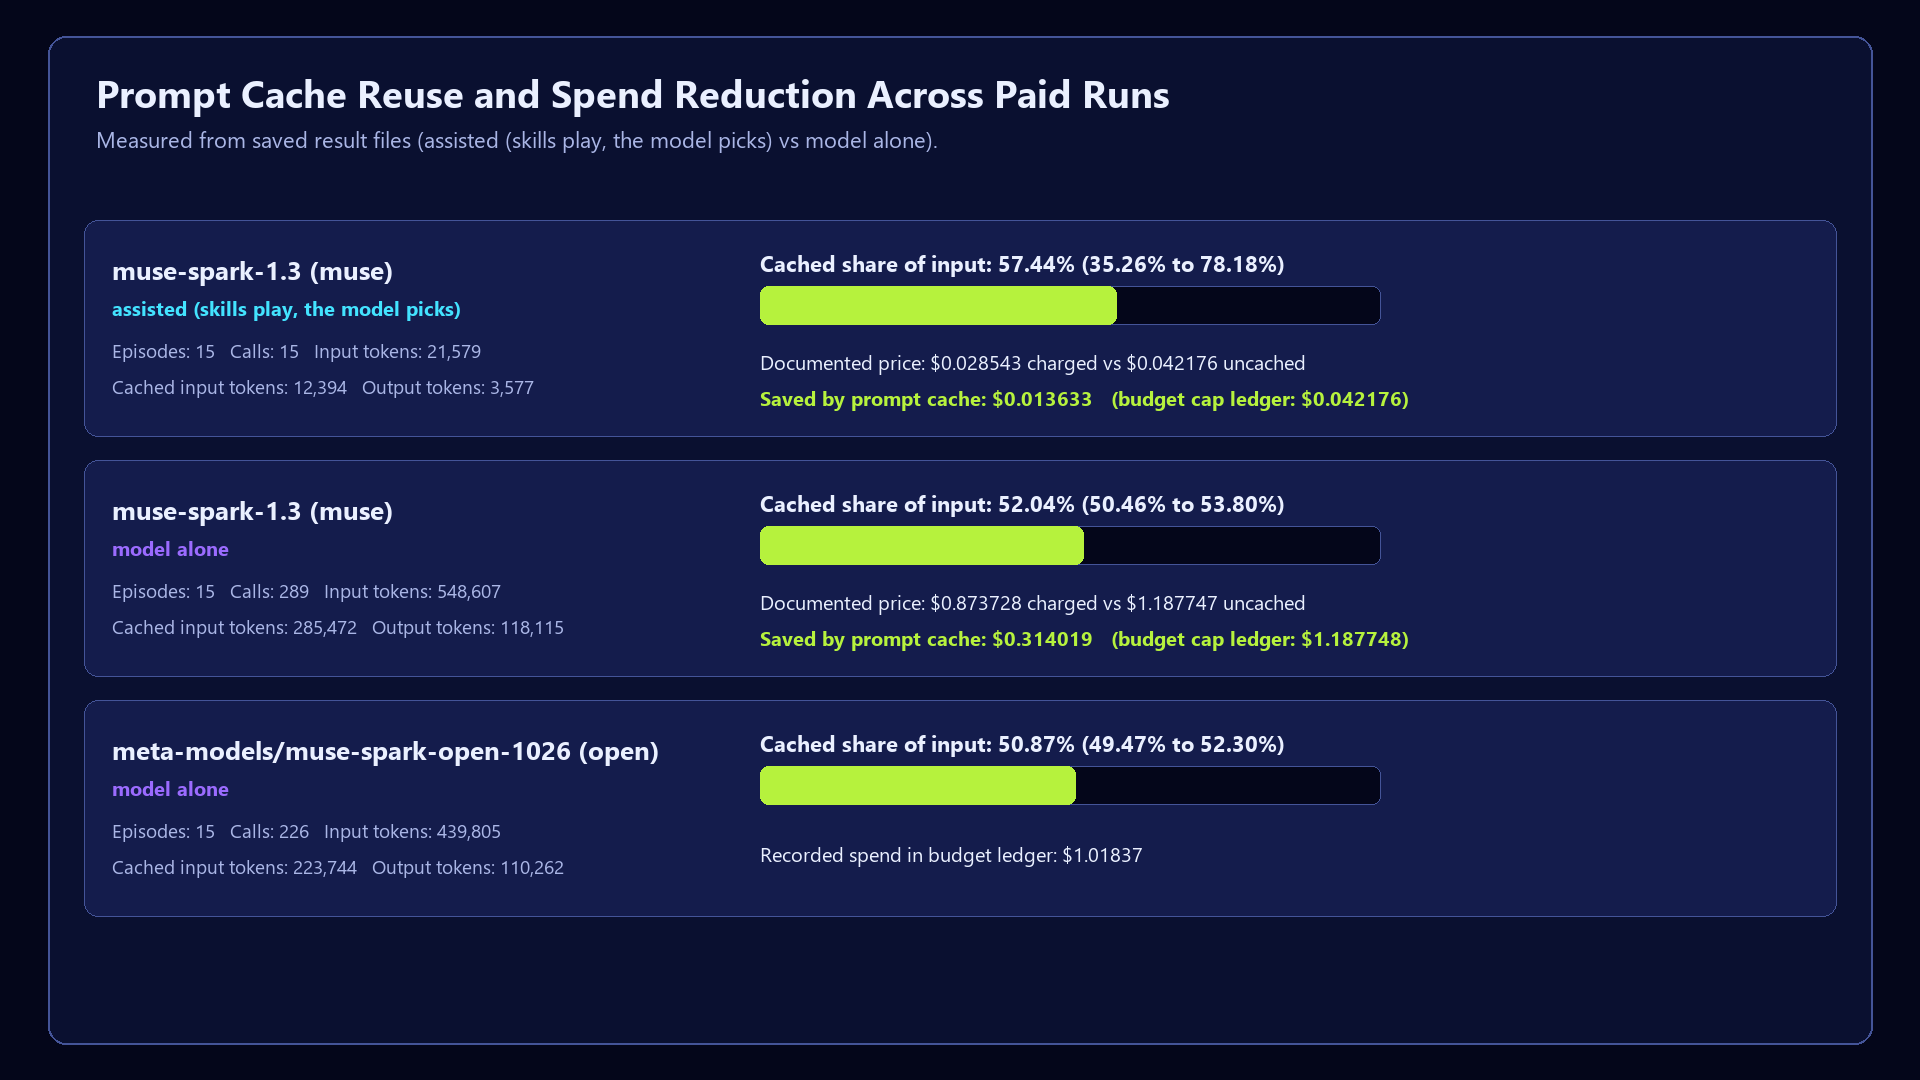
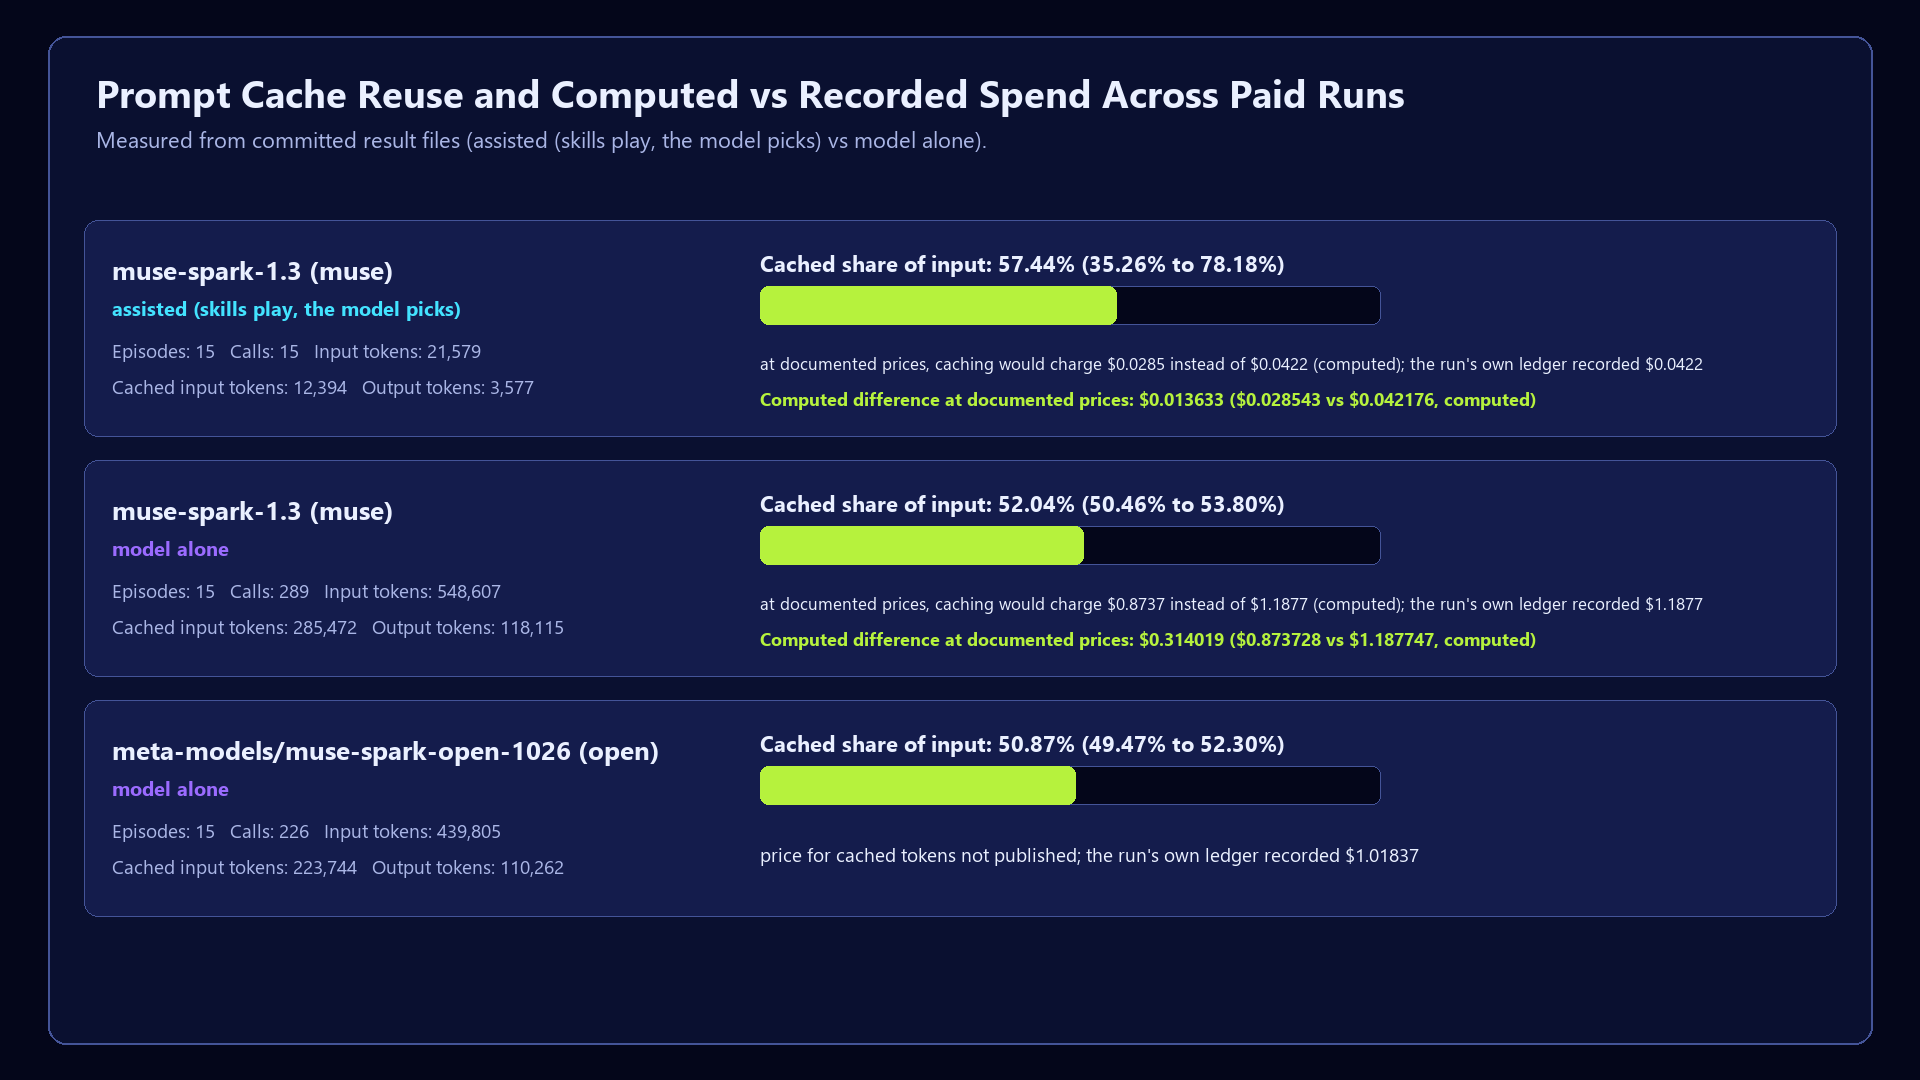
Label computed prompt cache differences and unpublished open-weights cache price

diff --git a/tools/make_charts.py b/tools/make_charts.py
@@ -267,6 +267,16 @@ def unmatched_numbers(svg_path: Path, allowed: set[str]) -> list[str]:
     return bad
 
 
+def unaccompanied_saved_lines(svg_path: Path) -> list[str]:
+    """Return any visible text lines that contain the word 'saved' without 'computed'."""
+    bad: list[str] = []
+    for line in visible_lines(svg_path):
+        low = line.lower()
+        if "saved" in low and "computed" not in low:
+            bad.append(line)
+    return bad
+
+
 def _build_arena_wins_and_cost(arena_rows: list[tuple[str, dict[str, Any]]], out_dir: Path) -> dict[str, Path]:
     c = Canvas()
     c.rect(48, 36, W - 96, H - 72, BG_1, stroke=LINE, radius=18, stroke_width=2)
@@ -357,11 +367,11 @@ def _build_arena_wins_and_cost(arena_rows: list[tuple[str, dict[str, Any]]], out
 def _build_prompt_cache_savings(cache_data: dict[str, Any], arena_lookup: dict[str, dict[str, Any]], out_dir: Path) -> dict[str, Path]:
     c = Canvas()
     c.rect(48, 36, W - 96, H - 72, BG_1, stroke=LINE, radius=18, stroke_width=2)
-    c.text(96, 98, "Prompt Cache Reuse and Spend Reduction Across Paid Runs", size=38, fill=INK, bold=True)
+    c.text(96, 98, "Prompt Cache Reuse and Computed vs Recorded Spend Across Paid Runs", size=38, fill=INK, bold=True)
     c.text(
         96,
         142,
-        f"Measured from saved result files ({ASSISTED_LABEL} vs {MODEL_ALONE_LABEL}).",
+        f"Measured from committed result files ({ASSISTED_LABEL} vs {MODEL_ALONE_LABEL}).",
         size=22,
         fill=INK_2,
     )
@@ -417,15 +427,15 @@ def _build_prompt_cache_savings(cache_data: dict[str, Any], arena_lookup: dict[s
             c.text(
                 bar_x,
                 y + 144,
-                f"Documented price: ${charged:.6f} charged vs ${without_cache:.6f} uncached",
-                size=20,
+                f"at documented prices, caching would charge ${charged:.4f} instead of ${without_cache:.4f} (computed); the run's own ledger recorded ${recorded_usd:.4f}",
+                size=17,
                 fill=INK,
             )
             c.text(
                 bar_x,
                 y + 180,
-                f"Saved by prompt cache: ${saved:.6f}   (budget cap ledger: ${recorded_usd:.6f})",
-                size=20,
+                f"Computed difference at documented prices: ${saved:.6f} (${charged:.6f} vs ${without_cache:.6f}, computed)",
+                size=18,
                 fill=LIME,
                 bold=True,
             )
@@ -433,8 +443,8 @@ def _build_prompt_cache_savings(cache_data: dict[str, Any], arena_lookup: dict[s
             c.text(
                 bar_x,
                 y + 156,
-                f"Recorded spend in budget ledger: ${recorded_usd:.5f}",
-                size=20,
+                f"price for cached tokens not published; the run's own ledger recorded ${recorded_usd:.5f}",
+                size=19,
                 fill=INK,
             )
 

diff --git a/tests/test_make_charts.py b/tests/test_make_charts.py
@@ -98,3 +98,19 @@ def test_every_arena_row_names_its_test_set_and_result_file(tmp_path):
         "random-20261027.json",
     ):
         assert fname in arena_text, fname
+
+
+def test_cache_chart_states_computed_documented_prices_and_rejects_saved_without_computed(tmp_path):
+    written = make_charts.build_all(results_dir=ROOT / "results", out_dir=tmp_path)
+    cache_svg = written["prompt-cache-savings"]["svg"]
+    cache_text = make_charts.visible_text(cache_svg)
+    assert "at documented prices, caching would charge $0.8737 instead of $1.1877 (computed); the run's own ledger recorded $1.1877" in cache_text
+    assert "price for cached tokens not published" in cache_text
+    for stem, paths in written.items():
+        assert make_charts.unaccompanied_saved_lines(paths["svg"]) == [], stem
+    tampered = tmp_path / "bad_cache.svg"
+    tampered.write_text(
+        cache_svg.read_text(encoding="utf-8").replace("</svg>", "<text x='10' y='10'>Saved by prompt cache: $0.314</text></svg>"),
+        encoding="utf-8",
+    )
+    assert make_charts.unaccompanied_saved_lines(tampered) != []
